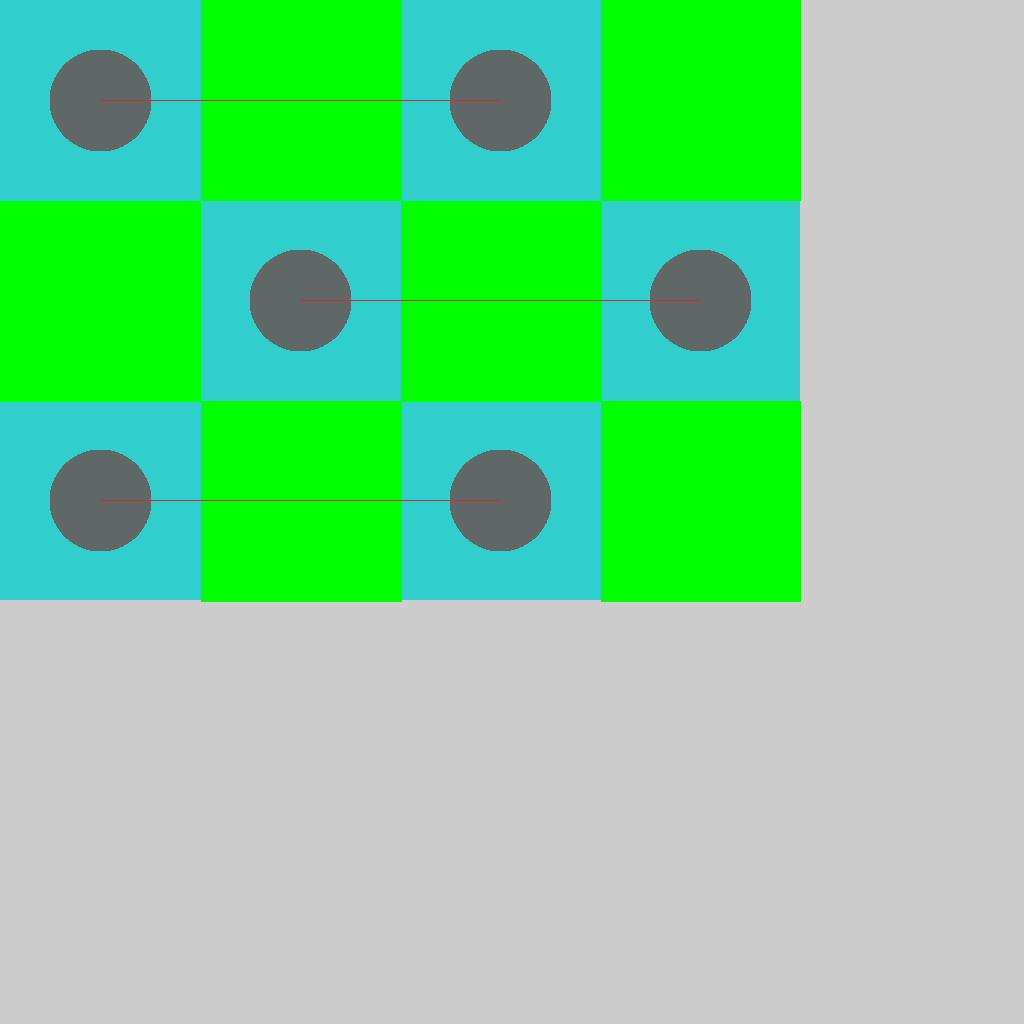
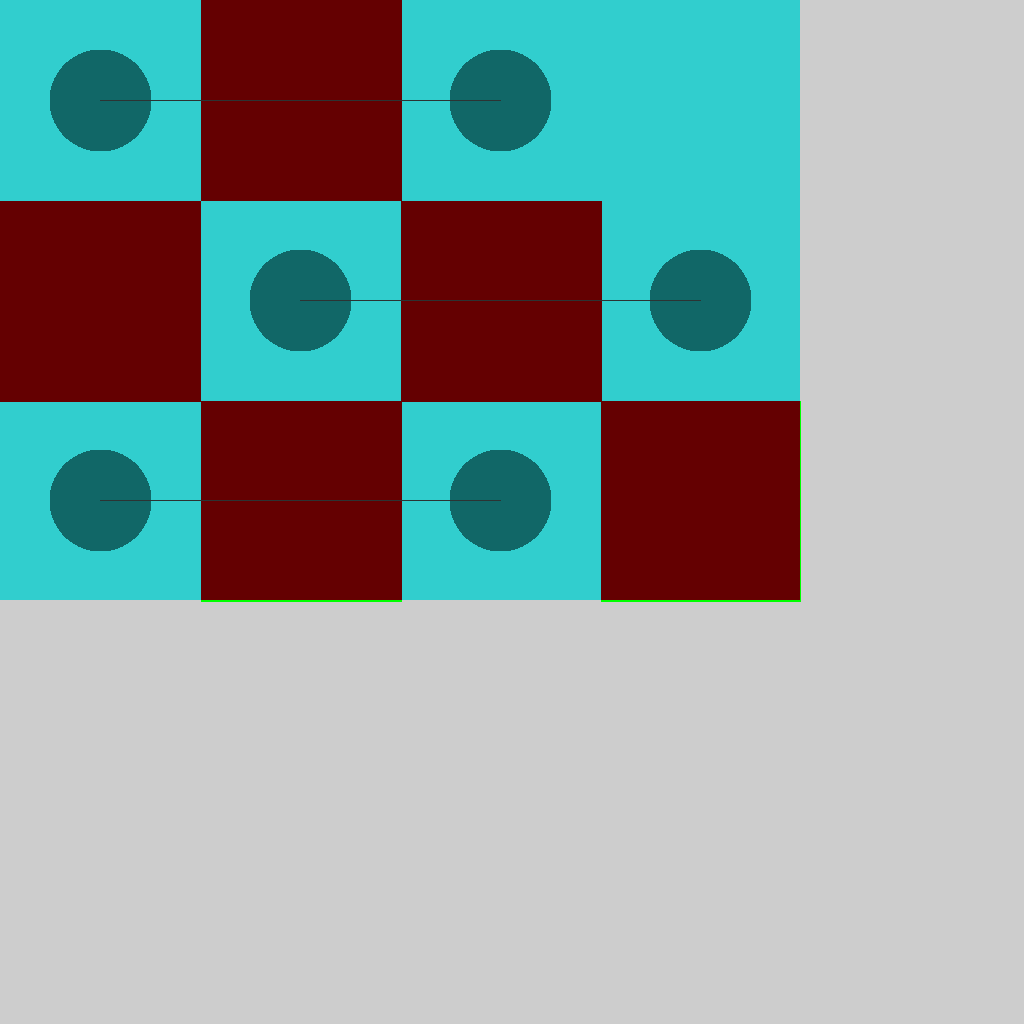
Tried to implement copy method
Not working yet

Changed region(s): [[0.0, 0.0, 0.7812, 0.5938], [0.0312, 0.0312, 0.1562, 0.1562], [0.0312, 0.4375, 0.1562, 0.5625]]

diff --git a/src/HW01App.cpp b/src/HW01App.cpp
@@ -104,6 +104,15 @@ private:
 	* Satisfies the tint requirement
 	*/
 	void tint(uint8_t* pixels, Color8u tint);
+	
+	/**
+	* Copies a rectangular portion of the screen from one area to another
+	* 
+	* This method copies a rectangular region from one area of the screen to another.
+	* 
+	* Satisfies the copy requirement - NOT FUNCTIONAL YET
+	*/
+	void copyRectangle(uint8_t* pixels, int x, int y, int copyX, int copyY, int width, int height);
 };
 
 void HW01App::prepSettings(Settings* settings) {
@@ -186,6 +195,19 @@ void HW01App::tint(uint8_t* pixels, Color8u color){
 }
 
 
+void HW01App::copyRectangle(uint8_t* pixels, int x, int y, int newX, int newY, int width, int height){
+	for(int i = x; i <= width; i++){
+		for(int j = y; j <= height; j++){
+			int index1 = 3*(x+y*kSurfaceSize);
+			int index2 = 3*(newX + newY*kSurfaceSize);
+			pixels[index2] = pixels[index1];
+			pixels[index2+1] = pixels[index1+1];
+			pixels[index2+2] = pixels[index1+2];
+			newY++;
+		}
+		newX++;
+	}
+}
 void HW01App::setup()
 {
 	mySurface_ = new Surface(kSurfaceSize,kSurfaceSize,false);
@@ -232,6 +254,7 @@ void HW01App::update(){
 	drawRectangle(myPixels, 201, 0, 200,200, Color(brightnessR1_,brightnessB1_,brightnessG1_));
 	drawRectangle(myPixels, 601, 0, 199, 200, Color(brightnessR1_,brightnessB1_,brightnessG1_));
 	drawRectangle(myPixels, 201, 401, 200, 200, Color(brightnessR1_,brightnessB1_,brightnessG1_));
+	//copyRectangle(myPixels,201,0,601,0,199,200);
 	drawRectangle(myPixels, 601, 401, 199, 200, Color(brightnessR1_,brightnessB1_,brightnessG1_));
 	drawCircle(myPixels, 100, 100, 50, Color(brightnessR2_,brightnessB2_,brightnessG2_));
 	drawCircle(myPixels, 300, 300, 50, Color(brightnessR2_,brightnessB2_,brightnessG2_));
